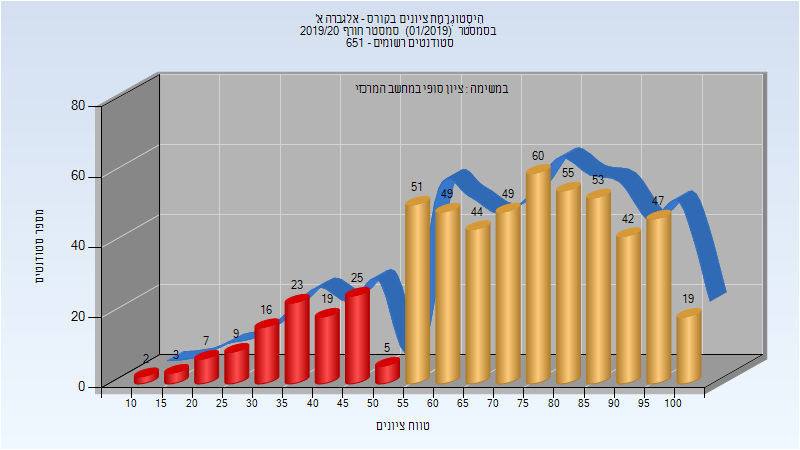
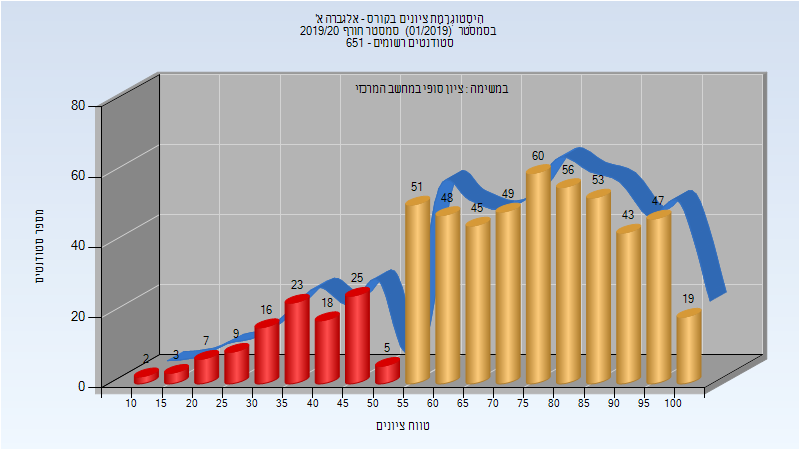
Deploy michael-maltsev/technion-histograms to github.com/michael-maltsev/technion-histograms.git:gh-pages

diff --git a/114020/index.html b/114020/index.html
@@ -472,6 +472,24 @@
 </tbody>
 </table>
 <h2>חורף 2019-2020</h2>
+<table>
+<thead>
+<tr>
+<th>איש סגל</th>
+<th>תפקיד</th>
+</tr>
+</thead>
+<tbody>
+<tr>
+<td>קניגל עמית</td>
+<td>מרצה - אחראי מקצוע</td>
+</tr>
+<tr>
+<td>פריזאנט יוליה</td>
+<td>סגל מנהלי - עם הרשאות מרצה אחראי</td>
+</tr>
+</tbody>
+</table>
 <h3>סופי מועד א'</h3>
 <p><img src="201901/Final_A.png" alt="201901 Final_A" /></p>
 <table>

diff --git a/104166/index.html b/104166/index.html
@@ -1296,12 +1296,12 @@
 </thead>
 <tbody>
 <tr>
-<td>578</td>
-<td>469/109</td>
+<td>579</td>
+<td>471/108</td>
 <td>81</td>
 <td>11</td>
 <td>100</td>
-<td>70.081</td>
+<td>70.197</td>
 <td>73</td>
 </tr>
 </tbody>

diff --git a/104166/README.md b/104166/README.md
@@ -405,7 +405,7 @@
 
 | סטודנטים | עברו/נכשלו | אחוז עוברים | ציון מינימלי | ציון מקסימלי | ממוצע | חציון |
 | ---- | ---- | ---- | ---- | ---- | ---- | ---- |
-| 578 | 469/109 | 81 | 11 | 100 | 70.081 | 73 |
+| 579 | 471/108 | 81 | 11 | 100 | 70.197 | 73 |
 
 ## אביב 2020
 

diff --git a/114020/README.md b/114020/README.md
@@ -153,6 +153,11 @@
 
 ## חורף 2019-2020
 
+| איש סגל | תפקיד |
+| ---- | ---- |
+| קניגל עמית | מרצה - אחראי מקצוע |
+| פריזאנט יוליה | סגל מנהלי - עם הרשאות מרצה אחראי |
+
 ### סופי מועד א'
 
 ![201901 Final_A](201901/Final_A.png)
